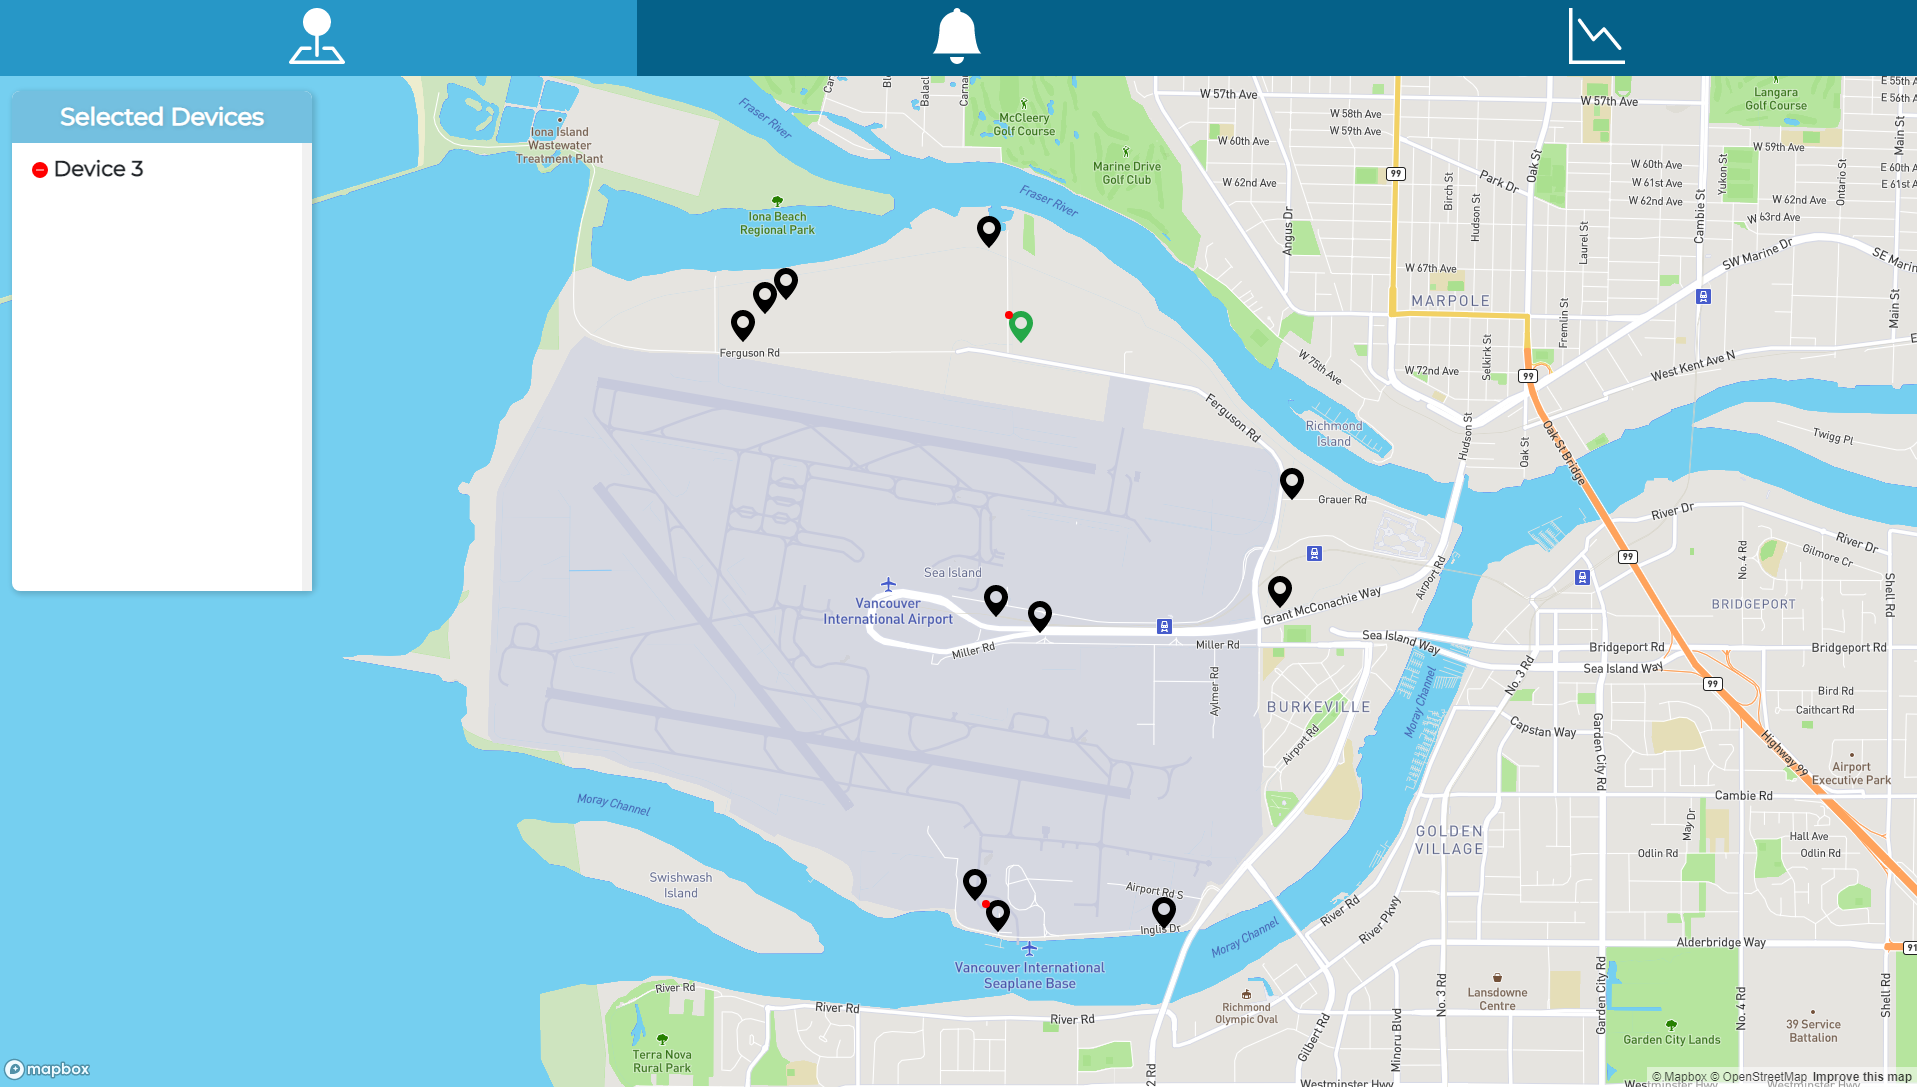
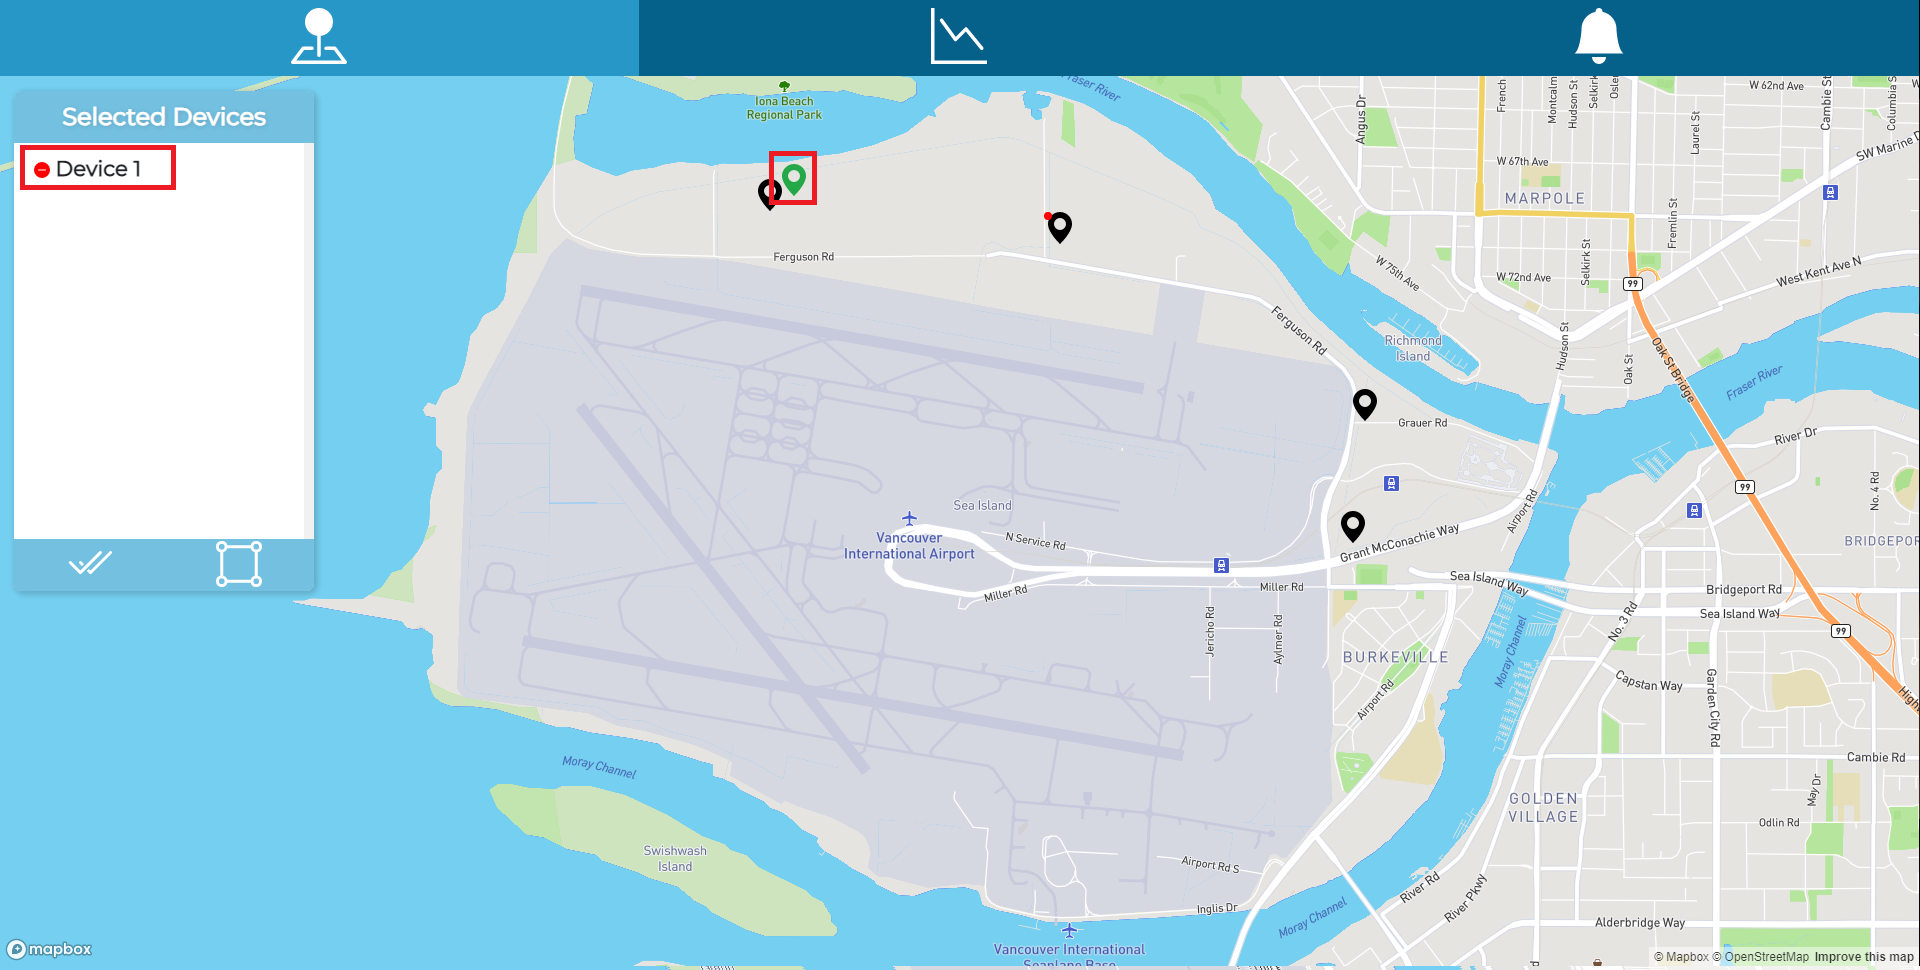
completed map page user manual

diff --git a/dashboard/usage-each-page/map.md b/dashboard/usage-each-page/map.md
@@ -12,30 +12,34 @@ has_toc: false
 
 This section contains information about how to use the map page of the dashboard to see information.
 
-To begin, we are greeted by this map with several different pins/markers and a few buttons on the left side of the screen and at the top.
+**1.** To begin, we are greeted by this map with several different pins/markers and a few buttons on the left side of the screen and at the top.
 
 This is what the map page should look like by default.
 
 ![Landing Map Page](https://github.com/BCIT-Reseach-Long-Term-ISSP/bcit-reseach-long-term-issp.github.io/blob/master/dashboard/assets/MapNoneSelected.png?raw=true "Landing Map Page")
 
-Here, we can select multiple different devices, and in future implementations of the dashboard, these selected devices will be moved on over to the device overview/statistic page, and we will be able to look at all of the information of the selected devices together.
+**2.** Here, we can select multiple different devices, and in future implementations of the dashboard, these selected devices will be moved on over to the device overview/statistic page, and we will be able to look at all of the information of the selected devices together.
 
 ![Map Page Multiple Devices](https://github.com/BCIT-Reseach-Long-Term-ISSP/bcit-reseach-long-term-issp.github.io/blob/master/dashboard/assets/MapMultiSelected.png?raw=true "Map Page Multiple Devices")
 
-If we select the double checkmark button on the left side of the screen (highlighted in the red box), we can select all available devices to be added to our "Selected Devices" list.
+**3.** If we select the double checkmark button on the left side of the screen (highlighted in the red box), we can select all available devices to be added to our "Selected Devices" list.
 
 ![Map Page All Devices](https://github.com/BCIT-Reseach-Long-Term-ISSP/bcit-reseach-long-term-issp.github.io/blob/master/dashboard/assets/MapAllSelected.png?raw=true "Map Page All Devices")
 
-If we select the X button, after having selected the double checkmark button, on the left side of the screen (highlighted in the red box), we can deselect all the devices and be left with an empty "Selected Devices" list.
+**4.** If we select the X button, after having selected the double checkmark button, on the left side of the screen (highlighted in the red box), we can deselect all the devices and be left with an empty "Selected Devices" list.
 
 ![Map Page All Devices Gone](https://github.com/BCIT-Reseach-Long-Term-ISSP/bcit-reseach-long-term-issp.github.io/blob/master/dashboard/assets/MapAllDeSelected.png?raw=true "Map Page All Devices Gone")
 
-Finally, if we select the box button on the left side of the screen (highlighted in the red box), we can select all available devices inside of a resizable container box that we can also move around on the map.
+**5.** Finally, if we select the box button on the left side of the screen (highlighted in the red box), we can select all available devices inside of a resizable container box that we can also move around on the map.
 
 ![Map Page Box Select](https://github.com/BCIT-Reseach-Long-Term-ISSP/bcit-reseach-long-term-issp.github.io/blob/master/dashboard/assets/MapBoxSelect.png?raw=true "Map Page Box Select")
 
-We can click on the green checkmark to confirm our choices within the box, or the red X button to cancel. Confirming will add all devices to the "Selected Devices" list, while cancelling will simply leave it empty.
+**6.** We can click on the green checkmark to confirm our choices within the box, or the red X button to cancel. Confirming will add all devices to the "Selected Devices" list, while cancelling will simply leave it empty.
 
 ![Map Page Box Selected](https://github.com/BCIT-Reseach-Long-Term-ISSP/bcit-reseach-long-term-issp.github.io/blob/master/dashboard/assets/MapBoxSelected.png?raw=true "Map Page Box Selected")
 
-Next, we can move on to the device information page and that manual can be found [here.](#Info)
+**7.** Before leaving this page, let's select one device so we can add it to our list.
+
+![Map Page 1 Selected](https://github.com/BCIT-Reseach-Long-Term-ISSP/bcit-reseach-long-term-issp.github.io/blob/master/dashboard/assets/Map1Selected.png?raw=true "Map Page 1 Selected")
+
+Next, we can move on to the device information page and that manual can be found [here.](https://bcit-reseach-long-term-issp.github.io/docs/dashboard/user-manual/info)
